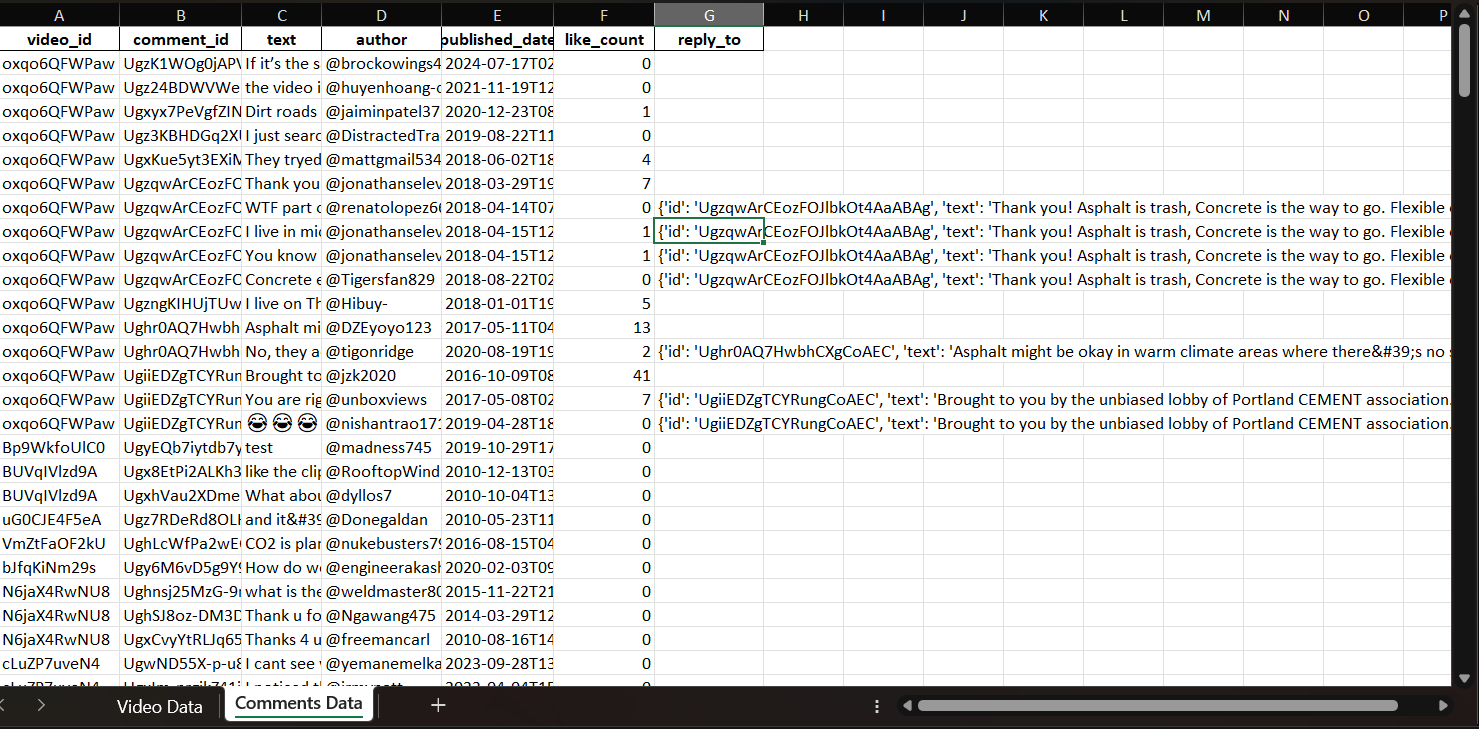
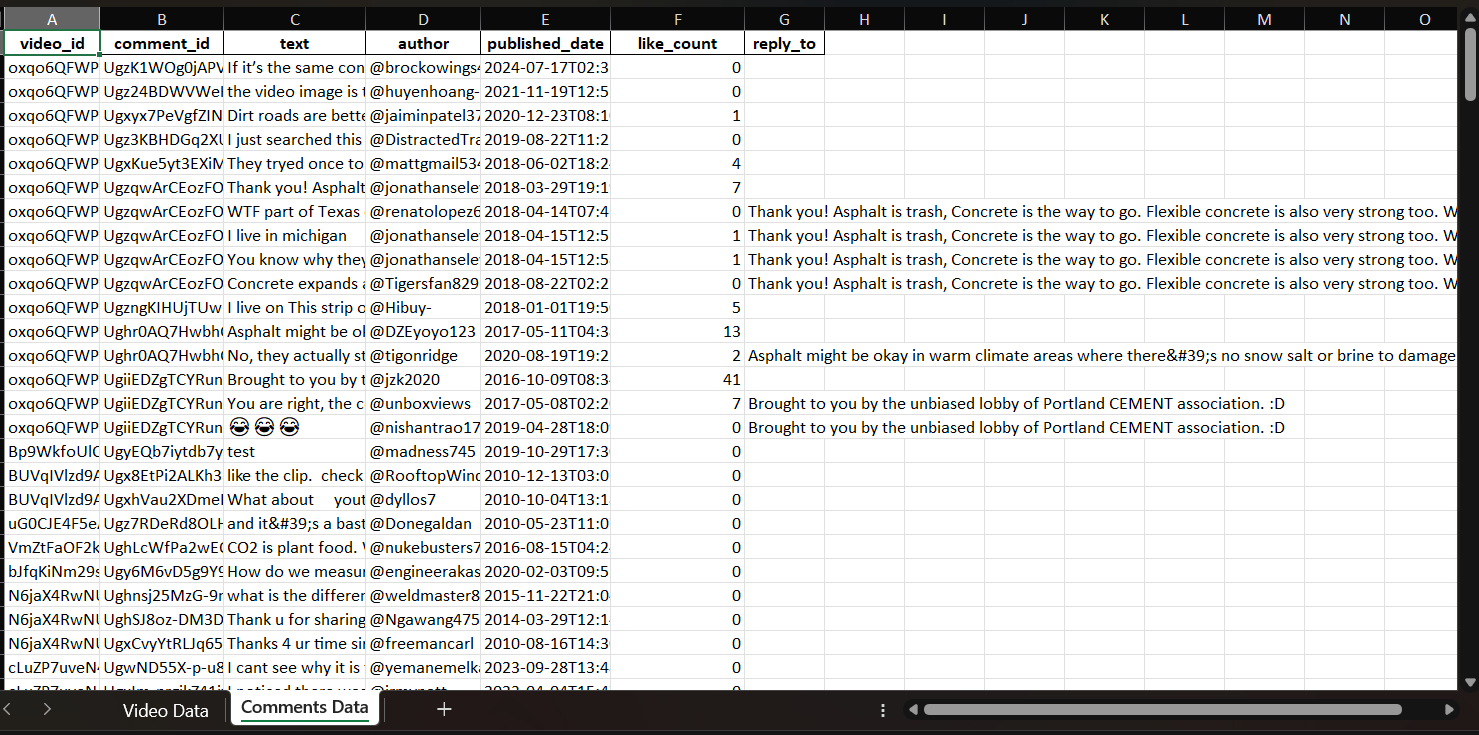
add pics in readme and remove id from comment replies

Changed region(s): [[0.0, 0.0, 1.0, 1.0], [0.7153, 0.8148, 0.902, 0.8752], [0.7153, 0.1207, 0.902, 0.1811]]

diff --git a/youtube_fetcher.py b/youtube_fetcher.py
@@ -147,10 +147,11 @@ def fetch_comments(youtube, video_id, max_comments=100):
                             "author": reply_snippet["authorDisplayName"],
                             "published_date": reply_snippet["publishedAt"],
                             "like_count": reply_snippet["likeCount"],
-                            "reply_to": {
-                                "id": top_comment_id,
-                                "text": top_comment_text
-                            }
+                            # "reply_to": {
+                            #     "id": top_comment_id,
+                            #     "text": top_comment_text
+                            # }
+                            "reply_to":top_comment_text
                         })
             request = youtube.commentThreads().list_next(request, response)
     except Exception as e:
